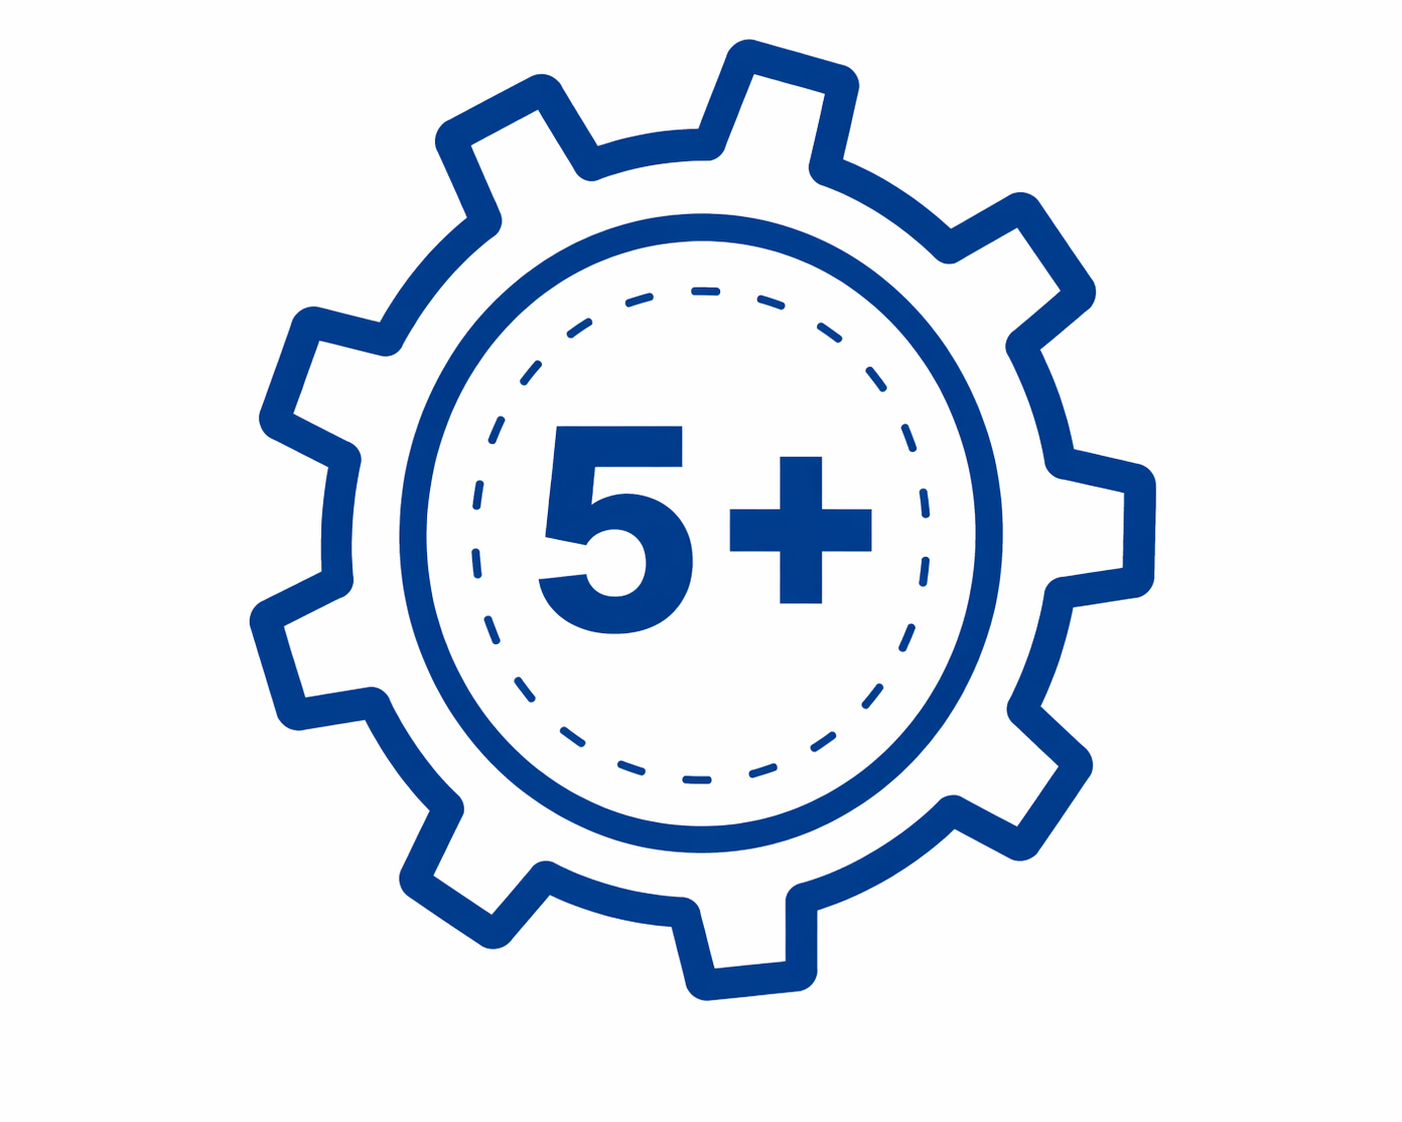
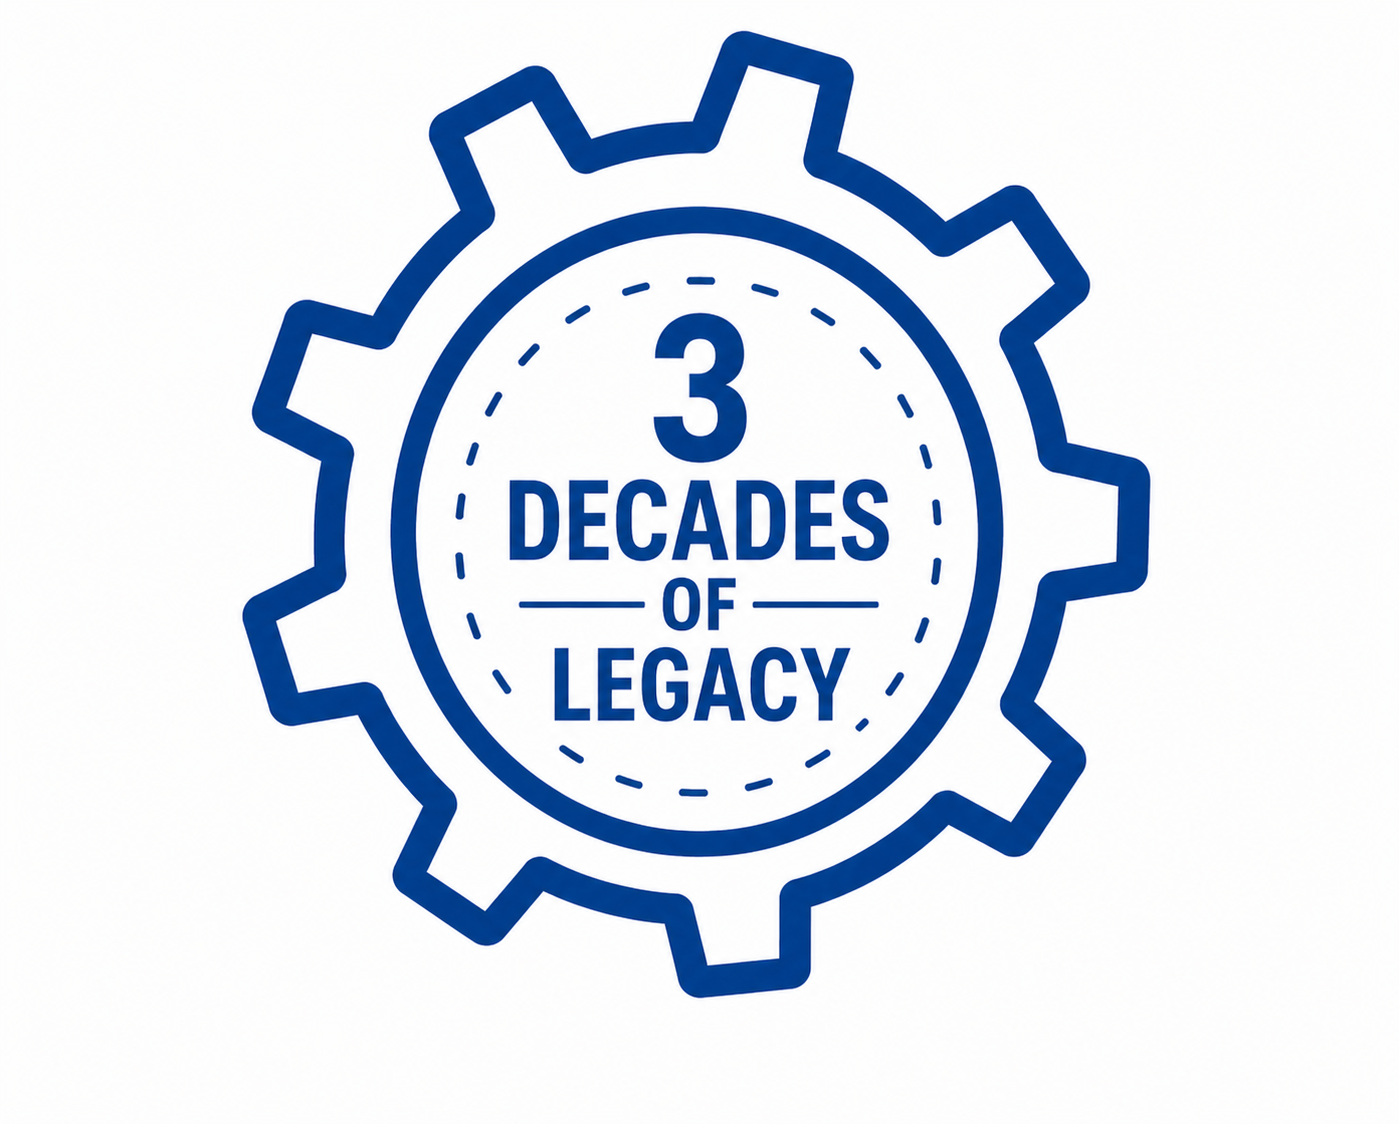
Updated UI, images, and content (carousel, homepage, branding updates)

diff --git a/src/pages/Home.tsx b/src/pages/Home.tsx
@@ -5,7 +5,7 @@ import carousel1 from '../assets/carousel1.png';
 import carousel2 from '../assets/carousel2.png';
 import carousel3 from '../assets/carousel3.png';
 import vacumBg from '../assets/vacum.png';
-import accessoryImg from '../assets/14.Milking Machine Accessories/02..Milking Machine Accessories.jpg';
+import detailedAboutImg from '../assets/02.Rotary Vane Pumps – Double Stage Oil Immersed Direct Drive/01.Rotary Vane Pumps – Double Stage Oil Immersed Direct Drive.jpg';
 import pharmImg from '../assets/pharmaceuticals.jpeg';
 import chemImg from '../assets/chemical_processing.jpeg';
 import jewelImg from '../assets/jewellery_making.jpeg';
@@ -18,6 +18,7 @@ import paintImg from '../assets/paint_manufacturing.jpeg';
 import distImg from '../assets/distillation.jpeg';
 import defImg from '../assets/defense_applications.jpeg';
 import labImg from '../assets/lab_equipment.png';
+import legacyImg from '../assets/5.png';
 import { products } from '../data/productsData';
 
 
@@ -70,16 +71,16 @@ function AboutSection() {
         <div className="about-left">
           <div className="badge-container">
             <div style={{ marginBottom: '5px' }}>
-              <svg className="history-badge-svg" viewBox="0 0 100 100" fill="none" xmlns="http://www.w3.org/2000/svg">
-                <path d="M50 15 L54 6 L64 9 L60 18 A32 32 0 0 1 76 28 L85 24 L90 33 L81 38 A32 32 0 0 1 85 50 L94 54 L91 64 L82 60 A32 32 0 0 1 72 76 L76 85 L67 90 L62 81 A32 32 0 0 1 50 85 L46 94 L36 91 L40 82 A32 32 0 0 1 24 72 L15 76 L10 67 L19 62 A32 32 0 0 1 15 50 L6 46 L9 36 L18 40 A32 32 0 0 1 28 24 L24 15 L33 10 L38 19 A32 32 0 0 1 50 15 Z" fill="transparent" stroke="#013D8B" strokeWidth="4.5" strokeLinejoin="round" />
-                <circle cx="50" cy="50" r="23" fill="transparent" stroke="#013D8B" strokeWidth="3" />
-                <circle cx="50" cy="50" r="16" fill="transparent" stroke="#013D8B" strokeWidth="1" strokeDasharray="3 3" />
-                <text x="50" y="50" fontSize="20" fontWeight="900" textAnchor="middle" dominantBaseline="central" fill="#013D8B" style={{ fontFamily: 'Arial, sans-serif' }}>5+</text>
-              </svg>
+              <img 
+                src={legacyImg} 
+                alt="3 Decades of Legacy" 
+                className="history-badge-img" 
+                style={{ width: '200px', height: '200px', objectFit: 'contain' }} 
+              />
             </div>
-            <p className="badge-years" style={{ letterSpacing: '1px', fontWeight: '800' }}>2019-2026</p>
-            <p className="badge-text decoration" style={{ fontWeight: '600' }}>
-              A 5+ year history of quality and reliability
+            <p className="badge-years no-margin-important" style={{ letterSpacing: '1px', fontWeight: '800' }}>2019-2026</p>
+            <p className="badge-text decoration no-margin-important" style={{ fontWeight: '600' }}>
+              3 Decades of history of quality and reliability
             </p>
           </div>
         </div>
@@ -91,7 +92,7 @@ function AboutSection() {
           <h2 className="section-title">Welcome to Enlark Enterprises Private Limited</h2>
           <div className="about-content">
             <p>
-              Enlark Enterprises Private Limited, <b>an ISO 9001: 2015 certified enterprise,</b> is a name you can trust being pioneers in high precision vacuum technology with four decades of inherited legacy and technology of famous <b>Bharath Vacuum Pumps brand.</b> We deliver a diverse range of vacuum pumps, vacuum based machinery and vacuum systems that cater to varied industries worldwide ranging from <b>pharmaceuticals, chemical processing, jewellery making, food processing, packaging solutions, automotive, general engineering, dairy farming, paint manufacturing, distillation, defense applications, lab equipment</b> and many others.
+              Enlark,<b>an ISO 9001: 2015 certified enterprise,</b> is a name you can trust being pioneers in high precision vacuum technology with four decades of inherited legacy and technology of famous <b>Bharath Vacuum Pumps</b> brand. We deliver a diverse range of vacuum pumps, vacuum based machinery and vacuum systems that cater to varied industries worldwide ranging from <b>pharmaceuticals, chemical processing, jewellery making, food processing, packaging solutions, automotive, general engineering, dairy farming, paint manufacturing, distillation, defense applications, lab equipment</b> and many others.
             </p>
           </div>
         </div>
@@ -127,16 +128,16 @@ function DetailedAboutSection() {
             </div>
             <div className="about-text-content" style={{ fontSize: '17px', lineHeight: '1.9', color: '#444' }}>
               <div style={{ marginBottom: '28px', fontWeight: '500', color: '#089AD3' }}>
-                <b>The company is conveniently located at Coimbatore, Tamilnadu And Cater to clients worldwide.</b>
+                <b>The company is conveniently located at Coimbatore, Tamilnadu and cater to clients worldwide.</b>
               </div>
               <p style={{ marginBottom: '28px' }}>
                 With a strong engineering team, Enlark Enterprises Private Limited is your right choice for high quality vacuum pumps, accessories and vacuum based systems.
               </p>
               <p style={{ marginBottom: '28px' }}>
-                Enlark Enterprises Private Limited offers all types of vacuum pumps ranging from <b>50LPM (3m³ /min) to 20000 LPM (1200m³ /min).</b> Enlark Enterprises Private Limited is specialized in rotary vane, water ring, diaphragm and piston pumps. The pumps come in multiple models like oil immersed, oil free as well as oil lubricated vacuum pumps.
+                Enlark offers all types of vacuum pumps ranging from <b>50LPM (3m³ /min) to 20000 LPM (1200m³ /min).</b> Enlark is specialized in rotary vane, water ring, diaphragm and piston pumps. The pumps come in multiple models like oil immersed, oil free as well as oil lubricated vacuum pumps.
               </p>
               <p style={{ marginBottom: '28px' }}>
-                Enlark Enterprises Private Limited provides you the option to choose from direct drive and belt drive pumps. Enlark Enterprises Private Limited also delivers single stage as well as double stage models in their rotary vane, water ring, and diaphragm pumps.
+                Enlark provides you the option to choose from direct drive and belt drive pumps. Enlark also delivers single stage as well as double stage models in their rotary vane, water ring, and diaphragm pumps.
               </p>
             </div>
           </div>
@@ -154,7 +155,7 @@ function DetailedAboutSection() {
                 minHeight: '400px'
               }} className="responsive-image-wrap">
                 <img
-                  src={accessoryImg}
+                  src={detailedAboutImg}
                   alt="Enlark Enterprises Private Limited Vacuum Pump Accessories"
                   style={{
                     width: '100%',
@@ -262,7 +263,7 @@ function ProductSection() {
           </div>
           <h2 className="product-main-title">Industrial vacuum pumps</h2>
           <p className="product-sub-title">
-            Enlark Enterprises offers the premium range of all types of vacuum pumps, vacuum system and vacuum related products
+            Enlark Enterprises offers the premium range of all types of industrial vacuum pumps, Vacuum systems and vacuum related products
           </p>
         </div>
 

diff --git a/src/pages/AboutUs.tsx b/src/pages/AboutUs.tsx
@@ -19,7 +19,7 @@ const AboutUsPage: React.FC = () => {
             Who we are
           </div>
           <h1 className="products-title">About Enlark Enterprises Private Limited</h1>
-          <p className="products-subtitle">Durable and efficient vacuum pumps of high quality and prompt service support.</p>
+          <p className="products-subtitle">Durable and efficient industrial vacuum pumps of high quality and prompt service support.</p>
         </div>
       </section>
 
@@ -209,7 +209,7 @@ const AboutUsPage: React.FC = () => {
               
               <div className="shape-future-text">
                 <p>
-                  Enlark Enterprises Private Limited designs and manufactures a broad range of vacuum pumps, and vacuum systems that cater to varied industries worldwide ranging from pharmaceuticals, chemical processing, jewellery making, food processing, packaging solutions, automotive, general engineering, dairy farming, paint manufacturing, distillation, defense applications, lab equipment and many others. 
+                  Enlark designs and manufactures a broad range of industrial vacuum pumps and vacuum systems that cater to varied industries worldwide ranging from pharmaceuticals, chemical processing, jewellery making, food processing, packaging solutions, automotive, general engineering, dairy farming, paint manufacturing, distillation, defense applications, lab equipment and many others. 
                 </p>
                 <p>
                   With a strong foundation committed to scientific design, precise measurements and global standards, we focus on product quality and precisely meeting the customer needs. 
@@ -401,24 +401,30 @@ const AboutUsPage: React.FC = () => {
             padding: 10px !important;
           }
           .product-range-modal {
-            padding: 35px 20px !important;
-            max-height: 85vh;
+            padding: 25px 15px !important;
+            max-height: 90vh;
             overflow-y: auto;
             border-radius: 16px !important;
+            width: 100% !important;
+            box-sizing: border-box !important;
+          }
+          .product-range-modal ul {
+            padding-left: 0 !important;
           }
           .product-range-modal h3 {
             font-size: 20px !important;
-            margin-bottom: 20px !important;
+            margin-bottom: 15px !important;
+            padding-right: 20px !important;
           }
           .product-range-modal li {
             font-size: 14px !important;
-            gap: 10px !important;
-            margin-bottom: 12px !important;
+            gap: 8px !important;
+            margin-bottom: 10px !important;
           }
           .product-range-modal .no-theme-btn {
-            top: 15px !important;
-            right: 15px !important;
-            font-size: 28px !important;
+            top: 10px !important;
+            right: 10px !important;
+            font-size: 26px !important;
           }
         }
       `}} />

diff --git a/src/App.css b/src/App.css
@@ -354,20 +354,29 @@
 }
 
 .badge-container {
-  text-align: left;
+  text-align: center;
+  display: flex;
+  flex-direction: column;
+  align-items: center;
+  margin-top: -30px; /* Move content upwards as requested */
+  gap: 0 !important;
 }
 
 .badge-img {
-  width: 180px;
+  width: 280px; /* Even larger and heavier */
   height: auto;
-  margin-bottom: 5px;
+  margin-bottom: -10px !important;
+}
+
+.no-margin-important {
+  margin: 0 !important;
+  padding: 0 !important;
 }
 
 .badge-years {
   font-size: 18px;
   color: #007CC3;
   font-weight: 600;
-  margin-top: 10px;
   position: relative;
   z-index: 2;
 }
@@ -376,7 +385,6 @@
   font-size: 16px;
   color: var(--primary-dark-blue);
   font-weight: 700;
-  margin-top: 8px;
   line-height: 1.4;
 }
 
@@ -1419,6 +1427,13 @@
   .hero .container, .about-section .container, .product-display {
     flex-direction: column;
     text-align: center;
+    align-items: center;
+  }
+  
+  .about-left {
+    justify-content: center;
+    flex: none;
+    margin-bottom: 30px;
   }
   
   .product-list-container {
@@ -1495,6 +1510,14 @@
 
   .industry-photo-card {
     height: 180px;
+  }
+
+  .responsive-image-wrap {
+    min-height: 250px !important;
+  }
+
+  .responsive-image-wrap img {
+    object-fit: contain !important;
   }
 }
 

diff --git a/src/config/company.ts b/src/config/company.ts
@@ -2,12 +2,12 @@ export const COMPANY = {
   nameLong: 'Enlark Enterprises Private Limited',
   nameShort: 'ENLARK ENTERPRISES',
   address:
-    '610/1A, Vadakku Thottam, L & T Campus Road, Malumichampatti, Coimbatore, Tamil Nadu 641050',
+    'SF NO 610/1A, vadakku thottam, L&T Road, L & T Road, Vadakku thottam, near L & T campus, Malumichampatti, Coimbatore, Tamil Nadu 641050',
   phoneDisplay: '+91 73382 84639',
   phoneHref: '+917338284639',
   email: 'marketing@enlark.in',
   website: 'www.enlark.in',
   mapEmbedSrc:
-    'https://www.google.com/maps?q=610%2F1A%2C%20Vadakku%20Thottam%2C%20L%20%26%20T%20Campus%20Road%2C%20Malumichampatti%2C%20Coimbatore%2C%20Tamil%20Nadu%20641050&output=embed',
+    'https://www.google.com/maps?q=Enlark+Enterprises+Pvt+Ltd+SF+NO+610%2F1A+vadakku+thottam+L%26T+Road+Coimbatore&output=embed',
 } as const;
 

diff --git a/src/components/Footer.tsx b/src/components/Footer.tsx
@@ -20,9 +20,9 @@ function Footer() {
           <ul className="footer-links">
             <li><NavLink to="/">Home</NavLink></li>
             <li><NavLink to="/about-us">About Us</NavLink></li>
-            <li><NavLink to="/products">Our products</NavLink></li>
-            <li><NavLink to="/industries">Industries we serve</NavLink></li>
-            <li><NavLink to="/contact">Contact us</NavLink></li>
+            <li><NavLink to="/products">Our Products</NavLink></li>
+            <li><NavLink to="/industries">Industries We Serve</NavLink></li>
+            <li><NavLink to="/contact">Contact Us</NavLink></li>
           </ul>
         </div>
 

diff --git a/src/components/Navbar.tsx b/src/components/Navbar.tsx
@@ -21,7 +21,7 @@ export function Navbar() {
             <NavLink to="/" style={{ display: 'flex', alignItems: 'center', gap: '15px' }}>
               <img src={logo} alt="Enlark Logo" className="logo" />
               <div className="company-branding">
-                <span className="brand-name">ENLARK ENTERPRISES PVT. LTD.</span>
+                <span className="brand-name">ENLARK ENTERPRISES PRIVATE LIMITED</span>
                 <span className="brand-iso">(AN ISO 9001: 2015 COMPANY)</span>
               </div>
             </NavLink>

diff --git a/src/pages/Contact.tsx b/src/pages/Contact.tsx
@@ -115,7 +115,7 @@ export function ContactPage() {
                   </div>
                   <div>
                     <h3 style={{ fontWeight: '700', color: '#333', marginBottom: '5px' }}>E-mail</h3>
-                    <p style={{ fontWeight: '600', color: '#ff5722', margin: 0 }}>{COMPANY.email}</p>
+                    <p id="strictly-lowercase-email" style={{ fontWeight: '600', color: '#ff5722', margin: 0 }}>marketing@enlark.in</p>
                   </div>
                 </div>
               </a>

diff --git a/src/components/FloatingContact.tsx b/src/components/FloatingContact.tsx
@@ -1,7 +1,9 @@
+import { COMPANY } from '../config/company';
+
 export function FloatingContact() {
   return (
     <div className="floating-contact">
-      <a href="mailto:marketing@enlark.in" className="floating-icon email-circle" title="Email Us">
+      <a href={`mailto:${COMPANY.email}`} className="floating-icon email-circle" title="Email Us">
         <svg
           width="24"
           height="24"

diff --git a/src/index.css b/src/index.css
@@ -328,3 +328,10 @@ h3.forced-black-text {
   text-transform: none !important;
   font-weight: 700 !important;
 }
+
+/* Foolproof Lowercase Enforcement */
+#strictly-lowercase-email,
+#strictly-lowercase-email::first-letter {
+  text-transform: lowercase !important;
+}
+
